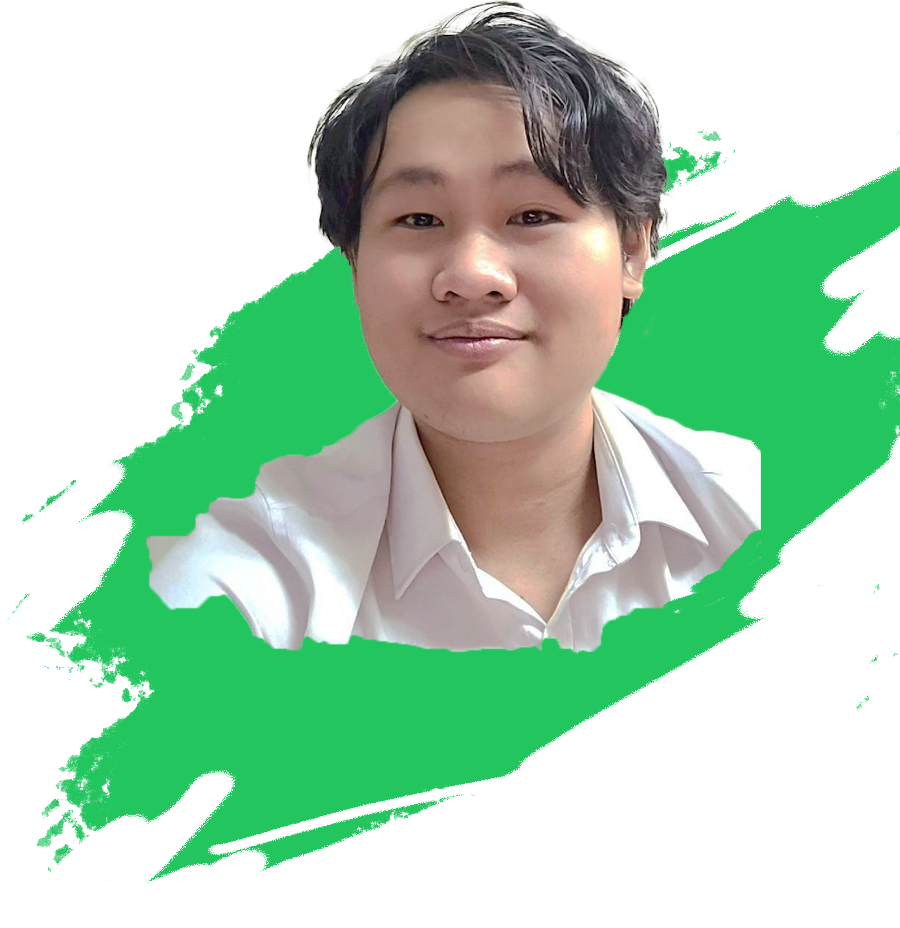
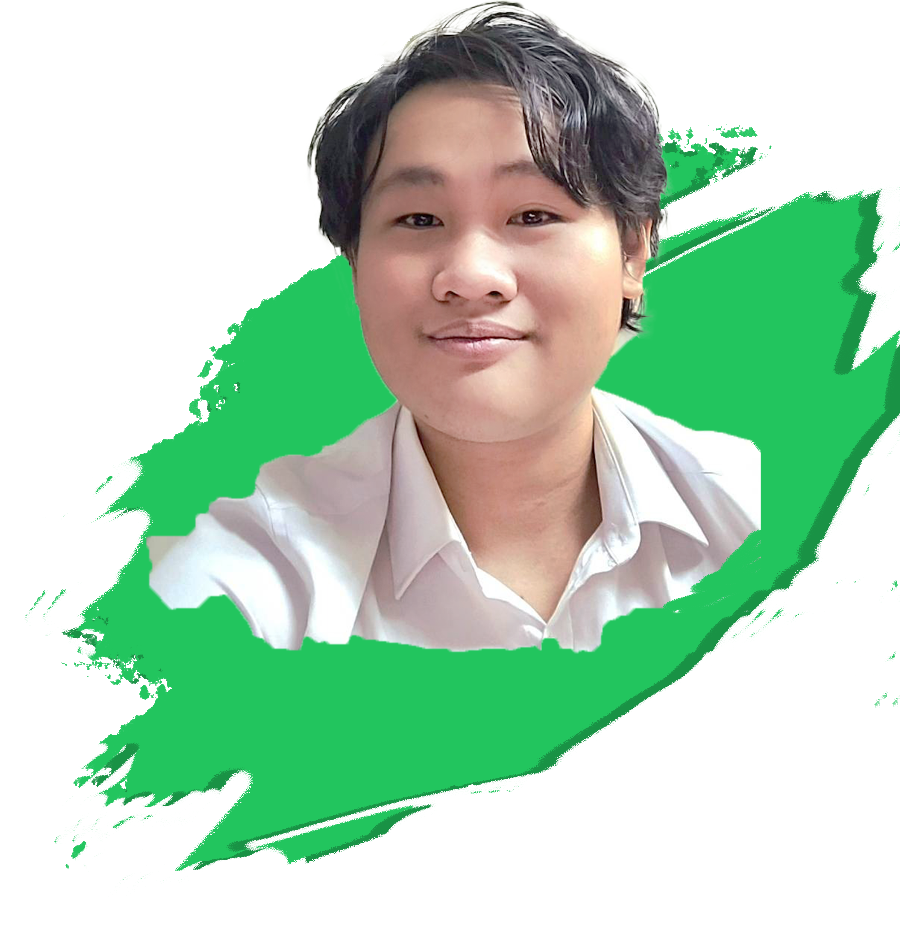
Fix scaling on large monitor

diff --git a/src/App.scss b/src/App.scss
@@ -30,8 +30,6 @@ $large_viewport: 1500px;
   left: 45%;
 }
 
-
-
 button:active {
   box-shadow: none;
 }
@@ -214,18 +212,18 @@ button:active {
     .downloadCVBtn {
       color: #fff;
       background-color: transparent;
-      font-size: 1.1rem;
+      font-size: 1rem;
       font-weight: 600;
       padding: 0.2em 0.5em;
       border: 0.01em solid #fff;
       border-radius: 4%;
-      margin-top: 0.75em;
+      margin-top: 1em;
       margin-left: 0.6em;
       box-shadow: 0.1em 0.1em rgba(255, 255, 255, 0.4);
     }
 
     .downloadCVBtn:hover {
-      background-color: $color_1;
+      background-color: rgba($color_1,0.9);
     }
 
     .downloadCVBtn:active {
@@ -234,14 +232,12 @@ button:active {
   }
 
   .avatarContainer {
-    display: flex;
-    padding-right: 1em;
     
     img {
-      align-items: center;
-      width: 35svw;
+      width: 25svw;
+      padding: 2em 1em;
       object-fit: cover;
-      animation: animateAvatar 4s linear infinite
+      animation: animateAvatar 4s linear infinite;
     }
 
     @keyframes animateAvatar {
@@ -281,6 +277,24 @@ button:active {
         width: 75%;
       }
 
+    }
+  }
+}
+
+@media screen and (min-width: $large_viewport) {
+  .NavBar {
+    padding: 0 10vw;
+  }
+
+  .Introduction {
+    padding: 0 10vw;
+
+    .avatarContainer {
+      width: 30svw;
+    }
+
+    .aboutMe .downloadCVBtn {
+      font-size: 1.3rem;
     }
   }
 }

diff --git a/src/Content.scss b/src/Content.scss
@@ -19,7 +19,7 @@ $large_viewport: 1500px;
 h1.workWith {
   font-weight: 600;
   letter-spacing: -0.1rem;
-  width: 80svw;
+  width: 78svw;
   padding-bottom: 0.6em;
   margin: auto;
 }
@@ -29,7 +29,7 @@ h1.workWith {
   display: grid;
   grid-template-columns: 1fr 1fr;
   gap: 0 6em;
-  width: 80svw;
+  width: 78svw;
   margin: auto;
 
   h3 {
@@ -117,7 +117,7 @@ h1.workWith {
 .ProjectsDisplay {
   color: #000;
   display: grid;
-  grid-template-columns: repeat(auto-fit, minmax(35svw, 1fr));
+  grid-template-columns: repeat(auto-fit, minmax(30svw, 1fr));
   grid-template-rows: 20px repeat(auto-fit, 1fr);
   gap: 1em;
   width: 80svw;
@@ -168,7 +168,7 @@ h1.workWith {
         background-color: $color_1;
         font-weight: 600;
         opacity: 1;
-        transform: scale(1.1) translateY(-5%);
+        transform: scale(1.1) translateY(-2%);
         z-index: 5;
       }
     }
@@ -176,7 +176,7 @@ h1.workWith {
 
   a.Project:hover {
     box-shadow: 0.1em 0.1em 0.75em 0.02em rgba($color_1, 0.4);
-    animation: zoom 20s ease-in;
+    animation: zoom 20s ease-in-out;
   }
 
   @keyframes zoom {
@@ -274,6 +274,16 @@ h1.workWith {
 
   @media screen and (min-width: $large_viewport) {
     font-size: 1vw;
+  }
+}
+
+// Large viewport
+@media screen and (min-width: $large_viewport) {
+  .experienceBoard {
+
+    img {
+      width: 4svw;
+    }
   }
 }
 
